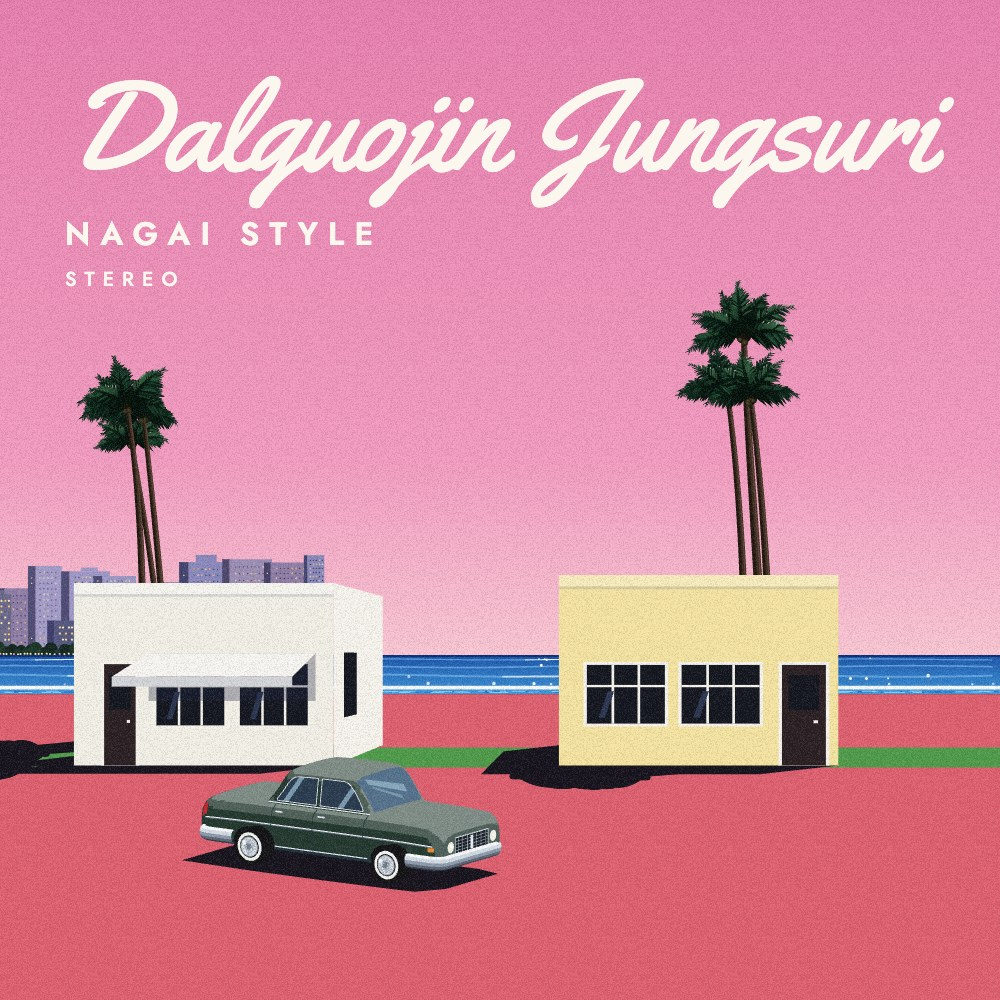
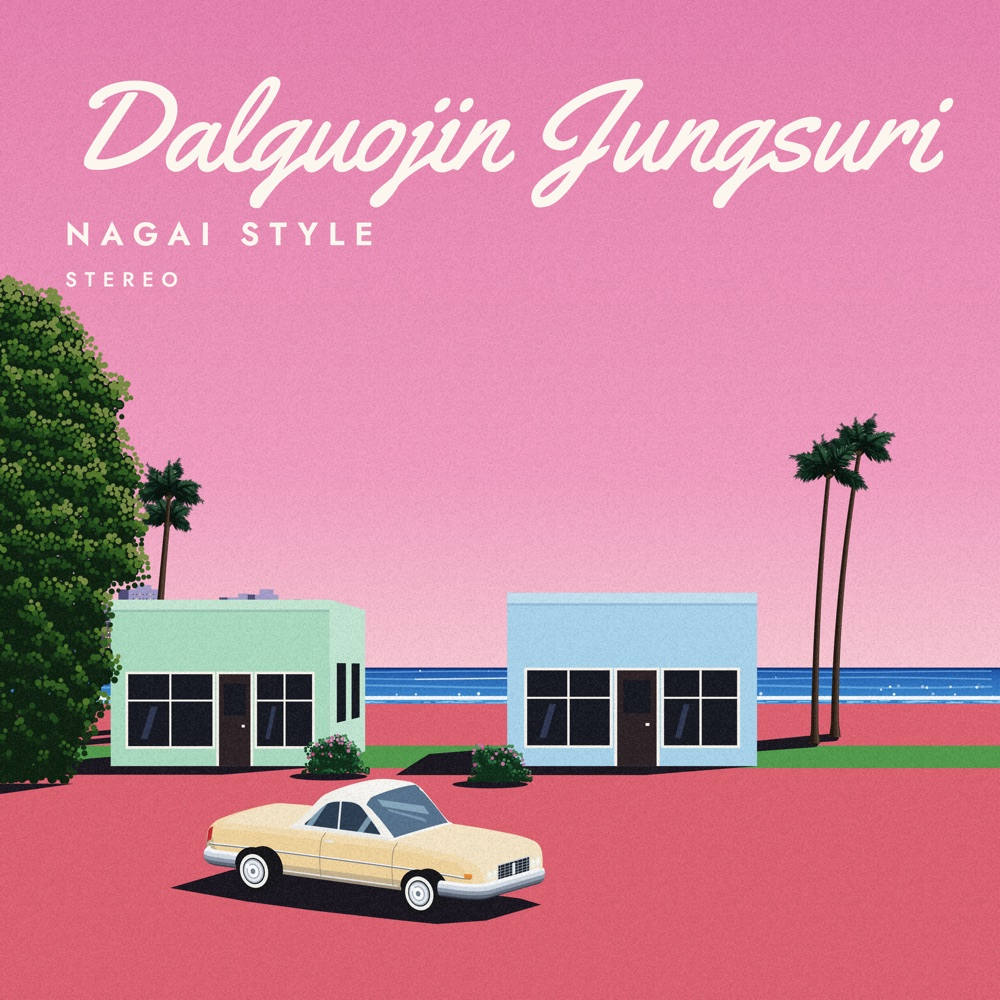
문서·사진 다시: 새 식물이 들어간 장면으로
- README 사진 8장 다시 찍음 (오후 해변 3, 해질녘 해안 도로 453, 저녁 간판 가게 282, 세로 해질녘 해변 286,
  커버 3장 220·17·209 와 레코드 히어로) — 둥근 나무·꽃덤불·용설란이 보이게. 사진 설명(한/영)도 맞춤
- style-guide: 잎 점 덩어리(덤불·둥근 나무) 규칙 — 짙은 녹색 바탕, 바깥 띠는 잎 점만, 푸아송 점·송이 층,
  그늘 짙기 맞춤, 땅에 닿기
- api.md: 해질녘엔 나무도 한 단계 어둡게

diff --git a/skills/nagai-motion/references/api.md b/skills/nagai-motion/references/api.md
@@ -19,7 +19,7 @@
 | foreground | beach: `car`/`empty` · resort: `pool`/`wall`/`car` · poolside: `pool` · coastRoad: `car` (도로 아래 공터에 세운다) | 자동차는 곡면 3D 모형(둥근 차체, 위로 좁아지는 캐빈, 감싸는 앞유리, 끝을 감싸 도는 크롬 범퍼)을 조금 위에서 본 3/4 각도로, 쿠페·오픈카·세단. pool 은 가로로 넓고 얕은 원근 사각형 (화면 폭의 약 60~75%) + 둘레 단색 갑판(오후 흰색·해질녘 연분홍·저녁 연어빛), 넓게 빈 쪽 옆 갑판에 실루엣 수준의 선베드 두 개가 앞뒤로, 발 쪽이 수영장을 향하게(85%, 색은 하늘에 맞춤). 선베드 모양·크기는 LOUNGER 고정 치수라 어떤 비율에서도 같다. 낮: 하늘색 물 + 윤슬, 연보라 저녁: 먼 쪽 파랑 → 가까운 쪽 남색 물 + 뒤쪽 풍경의 옅은 잔상 + 가로 물결 줄 |
 | buildings | resort: `1`/`2` · poolside: `0`/`1` · beach, coastRoad: `0` | |
 | palms | `even` 고른 간격, `cluster` 무리, `pair` 한 쌍(beach, coastRoad), `behind` 건물 뒤(resort, poolside) | |
-| sky | `deep` 짙은 파랑, `bright` 맑음 (오후) · `dusk` 분홍 해질녘 (야자수·덤불은 한 단계 어둡게) · `violet` 연보라 저녁 | 바닥 색이 하늘을 따라간다: 오후 → 모래색, dusk → 산호빛, violet → 자줏빛. dusk·violet 이면 빌딩숲 창에 둥근 불빛. violet 은 도시를 내려다보는 구도다: 수평선에 바다 띠, 그 아래로 원형 불빛 벌판과 소실점으로 뻗는 큰길 불빛이 땅의 위쪽 약 40% 를 덮고, 빌딩은 3겹(먼 줄 작게·가까운 줄 크고 드문드문), 꼭대기는 대체로 수평선 아래. 빌딩은 가는 타워 실루엣(거의 한 색의 짙은 남색) + 노란 창 불빛만: 꺼진 창은 그리지 않고, 창은 격자가 아니라 층을 따라 이어지는 불빛 띠 / 어긋나게 흩어진 창 / 거의 다 켜진 빌딩, 불빛마다 옅은 번짐. 가장 가까운 줄 밑동에 가로수 띠, 그 앞 테라스에 작게 줄인 건물·수영장. 자동차는 나오지 않는다 (리조트는 수영장, 해변·해안 도로는 비움). 저녁의 약 1/4 은 건물 없이 테라스·수영장·야자수만 있는 "수영장 테라스" 구도이고, 건물과 수영장이 함께 나오는 경우는 드물다(리조트는 담장으로, 수영장 마당은 건물을 뺀다). 직접 고정한 테마·전경·건물은 바꾸지 않는다. violet 이면 바다는 짙은 남색에 흰 윤슬 대신 빌딩숲 아래 드문드문 노란 가로 획 몇 줄 (미니멀), 야자수는 검은 실루엣, 덤불은 더 어둡게, 건물은 어둡게 + 창에 불 (창 안에 카운터·선반·테이블·책상·화분·소파 같은 실내 실루엣), 주인공 건물은 늘 불 켜진 간판 가게(간판 글자는 시드로: RECORDS, DINER, VIDEO …), 수영장은 선명한 파랑 물에 어두운 물결 자국(윤슬의 반대)과 거의 검은 안쪽 테두리 그림자, 반사는 수영장 뒤 야자수 실루엣만. |
+| sky | `deep` 짙은 파랑, `bright` 맑음 (오후) · `dusk` 분홍 해질녘 (야자수·덤불·나무는 한 단계 어둡게) · `violet` 연보라 저녁 | 바닥 색이 하늘을 따라간다: 오후 → 모래색, dusk → 산호빛, violet → 자줏빛. dusk·violet 이면 빌딩숲 창에 둥근 불빛. violet 은 도시를 내려다보는 구도다: 수평선에 바다 띠, 그 아래로 원형 불빛 벌판과 소실점으로 뻗는 큰길 불빛이 땅의 위쪽 약 40% 를 덮고, 빌딩은 3겹(먼 줄 작게·가까운 줄 크고 드문드문), 꼭대기는 대체로 수평선 아래. 빌딩은 가는 타워 실루엣(거의 한 색의 짙은 남색) + 노란 창 불빛만: 꺼진 창은 그리지 않고, 창은 격자가 아니라 층을 따라 이어지는 불빛 띠 / 어긋나게 흩어진 창 / 거의 다 켜진 빌딩, 불빛마다 옅은 번짐. 가장 가까운 줄 밑동에 가로수 띠, 그 앞 테라스에 작게 줄인 건물·수영장. 자동차는 나오지 않는다 (리조트는 수영장, 해변·해안 도로는 비움). 저녁의 약 1/4 은 건물 없이 테라스·수영장·야자수만 있는 "수영장 테라스" 구도이고, 건물과 수영장이 함께 나오는 경우는 드물다(리조트는 담장으로, 수영장 마당은 건물을 뺀다). 직접 고정한 테마·전경·건물은 바꾸지 않는다. violet 이면 바다는 짙은 남색에 흰 윤슬 대신 빌딩숲 아래 드문드문 노란 가로 획 몇 줄 (미니멀), 야자수는 검은 실루엣, 덤불은 더 어둡게, 건물은 어둡게 + 창에 불 (창 안에 카운터·선반·테이블·책상·화분·소파 같은 실내 실루엣), 주인공 건물은 늘 불 켜진 간판 가게(간판 글자는 시드로: RECORDS, DINER, VIDEO …), 수영장은 선명한 파랑 물에 어두운 물결 자국(윤슬의 반대)과 거의 검은 안쪽 테두리 그림자, 반사는 수영장 뒤 야자수 실루엣만. |
 
 테마에 없는 값을 force 에 넣으면 무시되고 시드대로 고른다. `NagaiScene.choiceOptions(theme)` 로 확인 가능.
 

diff --git a/skills/nagai-motion/references/style-guide.md b/skills/nagai-motion/references/style-guide.md
@@ -12,7 +12,8 @@
 ## 1. 화풍 규칙
 
 - **납작한 면 + 단계 음영.** 그라데이션은 하늘·바다 바탕에만. 물체는 면마다 한 색이고, 빛 받는 정도에 따라 3~5단계로만 나눈다.
-- **어두운 덩어리 먼저, 밝은 조각은 군데군데.** 야자수 잎, 덤불처럼 잎이 많은 것은 거의 검은 녹색 실루엣을 먼저 깔고, 빛 쪽에 밝은 조각을 띄엄띄엄 올린다. 어두운 바탕이 사이사이 비쳐야 한다.
+- **어두운 덩어리 먼저, 밝은 조각은 군데군데.** 야자수 잎처럼 잎이 많은 것은 어두운 실루엣을 먼저 깔고, 빛 쪽에 밝은 조각을 띄엄띄엄 올린다. 어두운 바탕이 사이사이 비쳐야 한다.
+- **잎 점 덩어리(덤불·둥근 나무).** 바탕은 검정이 아니라 짙은 녹색이고, 잎 점 자리에만 깐다 — 실루엣 바깥 띠는 잎 점만 보여서 짙은 테두리(오려 붙인 느낌)가 없다. 잎 점은 같은 간격이되 줄이 없게(푸아송 디스크) 크기를 조금씩 섞고, 작은 잎 송이마다 위가 밝고 아래가 어두운 층을 만든다. 색이 다른 나무끼리도 그늘 짙기는 같게, 큰 나무는 잎 덩어리가 땅까지 닿게. 라이브러리의 덤불·둥근 나무가 이렇게 그린다.
 - **반짝이는 것은 원.** 윤슬, 꽃, 물보라, 도시 불빛, 별은 작은 원을 무리 지어 찍고 일부만 밝게.
 - **파스텔 상자 + 검정 창.** 건물은 단순한 상자, 창은 거의 검정에 얇은 흰 틀.
 - **한 점 투시.** 정면은 똑바른 직사각형, 옆면·윗면만 소실점 쪽으로 줄어든다 (`util.persp`).

diff --git a/README.ko.md b/README.ko.md
@@ -14,11 +14,11 @@
 
 | 오후 | 해질녘 | 저녁 |
 |---|---|---|
-| ![수영장이 있는 오후 리조트](docs/images/scene-afternoon.jpg) | ![클래식카가 선 해질녘 거리](docs/images/scene-dusk.jpg) | ![불 켜진 도시를 내려다보는 저녁 테라스](docs/images/scene-evening.jpg) |
+| ![오픈카와 둥근 나무, 꽃덤불이 있는 오후 해변](docs/images/scene-afternoon.jpg) | ![클래식카가 선 해질녘 해안 도로](docs/images/scene-dusk.jpg) | ![도시를 내려다보는 불 켜진 간판 가게, 저녁](docs/images/scene-evening.jpg) |
 
 | 앨범 커버 | | | 모바일 (9:16) |
 |---|---|---|---|
-| ![필기체 커버](docs/images/cover-dusk.jpg) | ![빨간 띠지 커버](docs/images/cover-afternoon.jpg) | ![세리프 커버](docs/images/cover-evening.jpg) | ![세로 해질녘 장면](docs/images/scene-mobile.jpg) |
+| ![필기체 커버](docs/images/cover-dusk.jpg) | ![빨간 띠지 커버](docs/images/cover-afternoon.jpg) | ![세리프 커버](docs/images/cover-evening.jpg) | ![세로 해질녘 해변](docs/images/scene-mobile.jpg) |
 
 ## 기능
 

diff --git a/README.md b/README.md
@@ -14,11 +14,11 @@ The repository holds three things:
 
 | Afternoon | Dusk | Evening |
 |---|---|---|
-| ![Afternoon resort with a pool](docs/images/scene-afternoon.jpg) | ![Dusk street with a classic car](docs/images/scene-dusk.jpg) | ![Evening terrace above a lit city](docs/images/scene-evening.jpg) |
+| ![Afternoon beach with a convertible, round trees and a flowering bush](docs/images/scene-afternoon.jpg) | ![Dusk coast road with a classic car](docs/images/scene-dusk.jpg) | ![Evening shop with its sign lit, above the city](docs/images/scene-evening.jpg) |
 
 | Album covers | | | Mobile (9:16) |
 |---|---|---|---|
-| ![Cover in script type](docs/images/cover-dusk.jpg) | ![Cover with a red obi](docs/images/cover-afternoon.jpg) | ![Cover in serif type](docs/images/cover-evening.jpg) | ![Portrait dusk scene](docs/images/scene-mobile.jpg) |
+| ![Cover in script type](docs/images/cover-dusk.jpg) | ![Cover with a red obi](docs/images/cover-afternoon.jpg) | ![Cover in serif type](docs/images/cover-evening.jpg) | ![Portrait dusk beach](docs/images/scene-mobile.jpg) |
 
 ## Features
 
